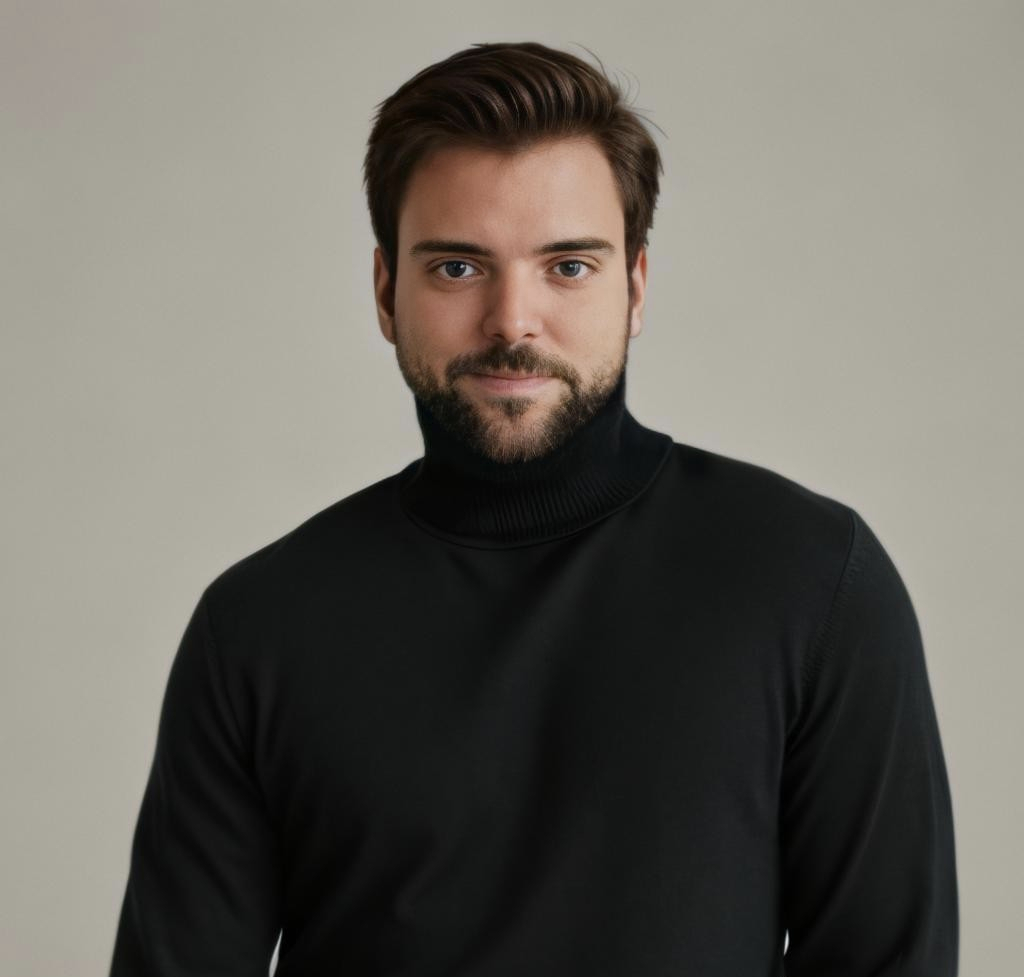
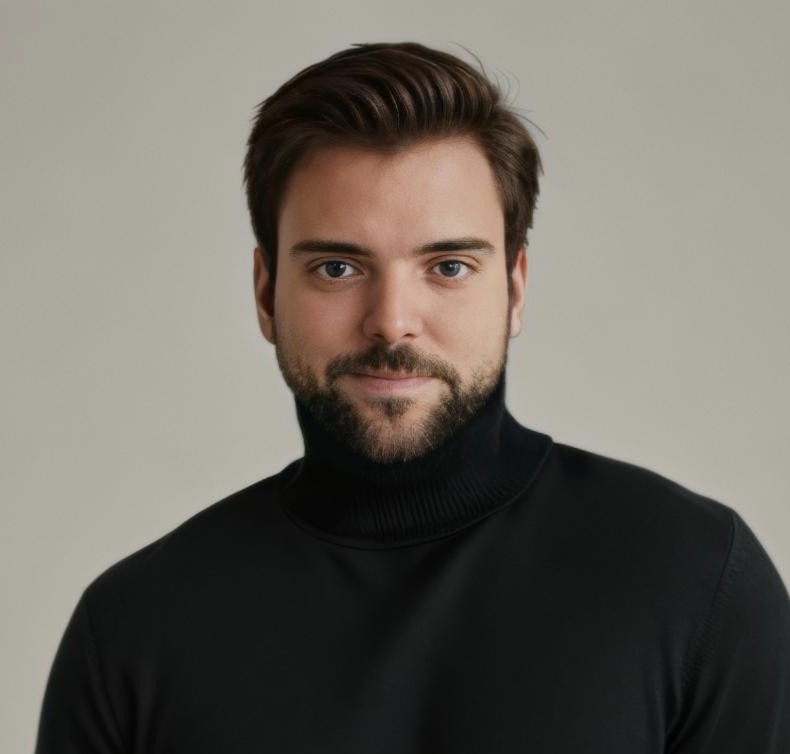
mejoras

Changed region(s): [[0.0304, 0.0305, 1.0, 1.0], [0.7595, 0.8846, 0.8203, 1.0], [0.243, 0.9761, 0.2734, 1.0]]

diff --git a/index.html b/index.html
@@ -251,7 +251,7 @@
                     <h4>Diego Díaz-Hellín López</h4>
                     <span class="role">Co-Founder & Gestor de Proyectos</span>
                     <p>Dedicado a traducir las necesidades y gustos de cada cliente en soluciones a medida.</p>
-                    <p class="team-phone"><i class="fas fa-phone"></i> +34 600 000 003</p>
+                    <p class="team-phone"><i class="fas fa-phone"></i> +34 625 811 123</p>
                 </div>
             </div>
         </div>

diff --git a/styles.css b/styles.css
@@ -372,10 +372,6 @@ body {
     margin-bottom: 10px;
 }
 
-.black-placeholder:hover {
-    border-color: var(--primary-orange);
-    opacity: 0.9;
-}
 
 .divider {
     border: none;
